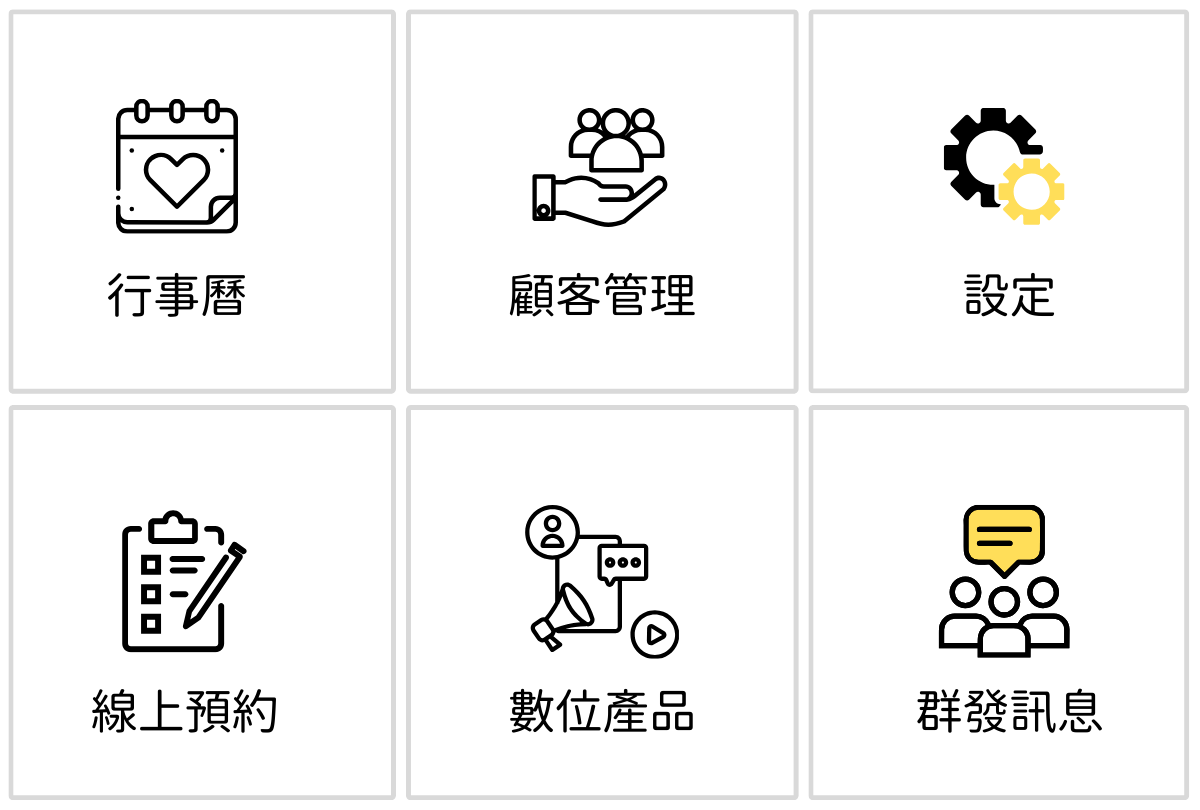
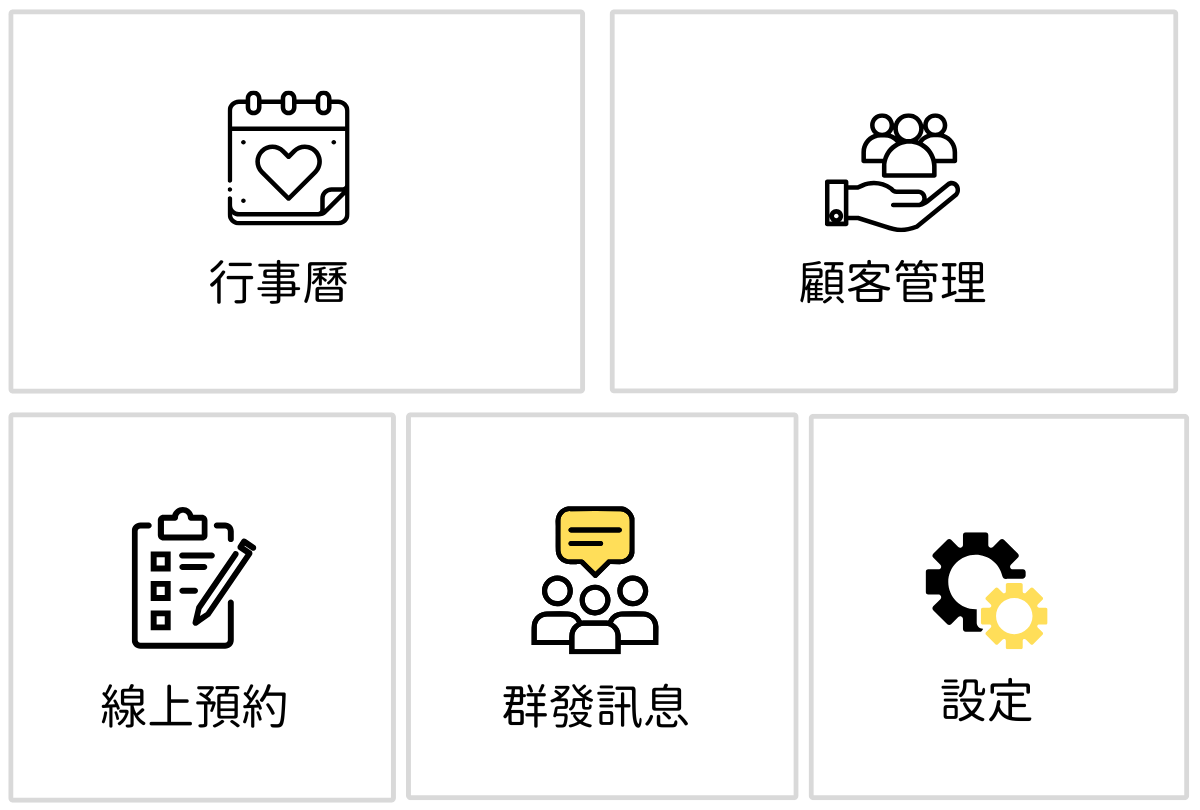
Change new tw dashbhoard

diff --git a/app/interactions/user_bot_lines/rich_menus/dashboard.rb b/app/interactions/user_bot_lines/rich_menus/dashboard.rb
@@ -9,9 +9,14 @@ module UserBotLines
 
       string :locale
 
+      # JP
       # 2500x1686
       # | 1 | 2 | 3 |
       # | 4 | 5 | 6 |
+      # TW
+      # 2500x1686
+      # |  1  |  2  |
+      # | 3 | 4 | 5 |
       def execute
         I18n.with_locale(locale) do
           compose(
@@ -42,7 +47,7 @@ module UserBotLines
               "bounds": {
                 "x": 0,
                 "y": 0,
-                "width": 833,
+                "width": 1250,
                 "height": 843
               },
               "action": LineActions::Uri.template(
@@ -53,9 +58,9 @@ module UserBotLines
             {
               # 2
               "bounds": {
-                "x": 834,
+                "x": 1250,
                 "y": 0,
-                "width": 833,
+                "width": 1250,
                 "height": 843
               },
               "action": LineActions::Uri.template(
@@ -65,19 +70,6 @@ module UserBotLines
             },
             {
               # 3
-              "bounds": {
-                "x": 1667,
-                "y": 0,
-                "width": 833,
-                "height": 843
-              },
-              "action": LineActions::Uri.template(
-                label: I18n.t("toruya_line.actions.label.settings"),
-                url: LiffRouting.liff_url(:settings, locale)
-              )
-            },
-            {
-              # 4
               "bounds": {
                 "x": 0,
                 "y": 843,
@@ -90,7 +82,7 @@ module UserBotLines
               )
             },
             {
-              # 5
+              # 4
               "bounds": {
                 "x": 834,
                 "y": 843,
@@ -98,12 +90,12 @@ module UserBotLines
                 "height": 843
               },
               "action": LineActions::Uri.template(
-                label: I18n.t("toruya_line.actions.label.online_service"),
-                url: LiffRouting.liff_url(:online_services, locale)
+                label: I18n.t("toruya_line.actions.label.broadcasts"),
+                url: LiffRouting.liff_url(:broadcasts, locale)
               )
             },
             {
-              # 6
+              # 5
               "bounds": {
                 "x": 1667,
                 "y": 843,
@@ -111,8 +103,8 @@ module UserBotLines
                 "height": 843
               },
               "action": LineActions::Uri.template(
-                label: I18n.t("toruya_line.actions.label.broadcasts"),
-                url: LiffRouting.liff_url(:broadcasts, locale)
+                label: I18n.t("toruya_line.actions.label.settings"),
+                url: LiffRouting.liff_url(:settings, locale)
               )
             }
           ]

diff --git a/app/interactions/user_bot_lines/rich_menus/dashboard_with_notifications.rb b/app/interactions/user_bot_lines/rich_menus/dashboard_with_notifications.rb
@@ -10,9 +10,14 @@ module UserBotLines
       string :locale
 
       # 2500x1686
+      # JP
       # |     7     |
       # | 1 | 2 | 3 |
       # | 4 | 5 | 6 |
+      # TW
+      # |     7     |
+      # |  1  |  2  |
+      # | 3 | 4 | 5 |
       def execute
         I18n.with_locale(locale) do
           compose(
@@ -67,9 +72,9 @@ module UserBotLines
             {
               # 2
               "bounds": {
-                "x": 834,
+                "x": 1250,
                 "y": 230,
-                "width": 833,
+                "width": 1250,
                 "height": 728
               },
               "action": LineActions::Uri.template(
@@ -79,19 +84,6 @@ module UserBotLines
             },
             {
               # 3
-              "bounds": {
-                "x": 1667,
-                "y": 230,
-                "width": 833,
-                "height": 728
-              },
-              "action": LineActions::Uri.template(
-                label: I18n.t("toruya_line.actions.label.settings"),
-                url: LiffRouting.liff_url(:settings, locale)
-              )
-            },
-            {
-              # 4
               "bounds": {
                 "x": 0,
                 "y": 843,
@@ -104,7 +96,7 @@ module UserBotLines
               )
             },
             {
-              # 5
+              # 4
               "bounds": {
                 "x": 834,
                 "y": 843,
@@ -112,12 +104,12 @@ module UserBotLines
                 "height": 728
               },
               "action": LineActions::Uri.template(
-                label: I18n.t("toruya_line.actions.label.online_service"),
-                url: LiffRouting.liff_url(:online_services, locale)
+                label: I18n.t("toruya_line.actions.label.broadcasts"),
+                url: LiffRouting.liff_url(:broadcasts, locale)
               )
             },
             {
-              # 6
+              # 5
               "bounds": {
                 "x": 1667,
                 "y": 843,
@@ -125,8 +117,8 @@ module UserBotLines
                 "height": 728
               },
               "action": LineActions::Uri.template(
-                label: I18n.t("toruya_line.actions.label.broadcasts"),
-                url: LiffRouting.liff_url(:broadcasts, locale)
+                label: I18n.t("toruya_line.actions.label.settings"),
+                url: LiffRouting.liff_url(:settings, locale)
               )
             }
           ]
